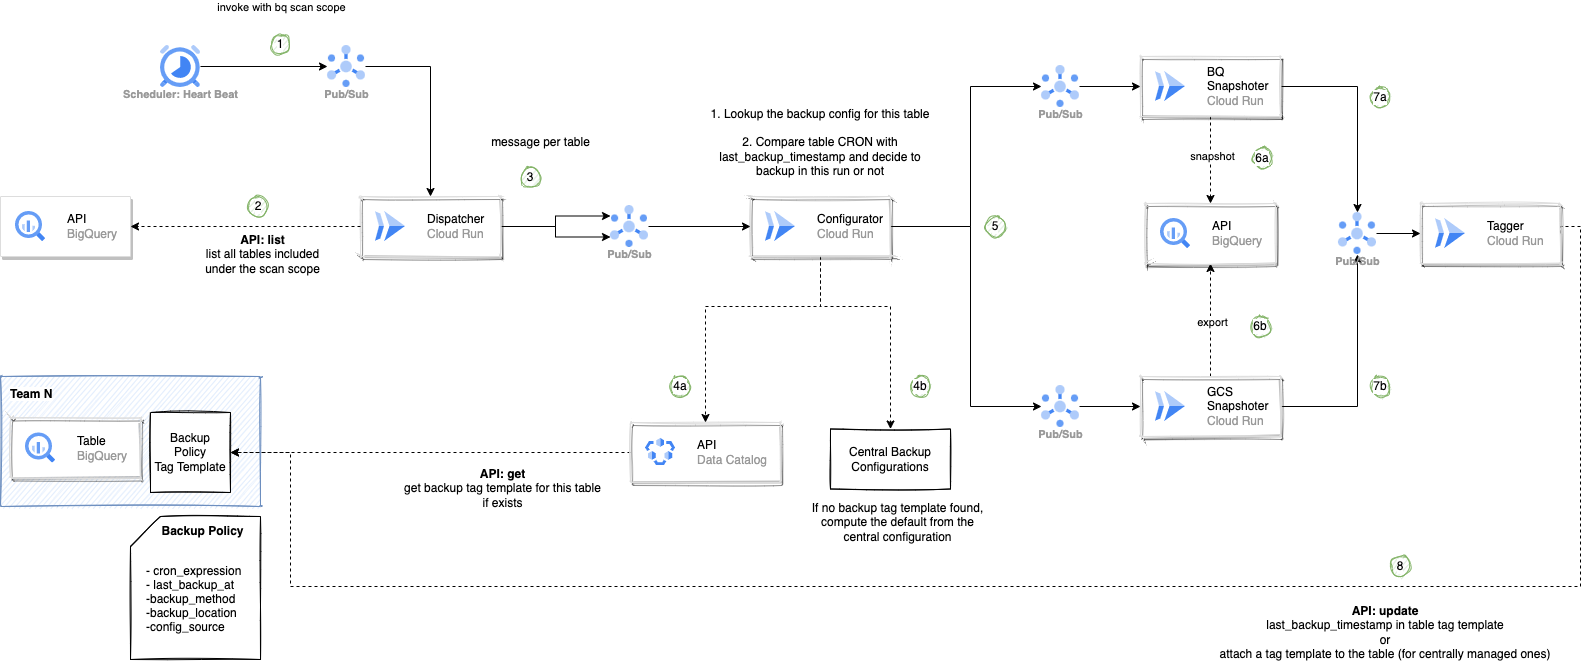
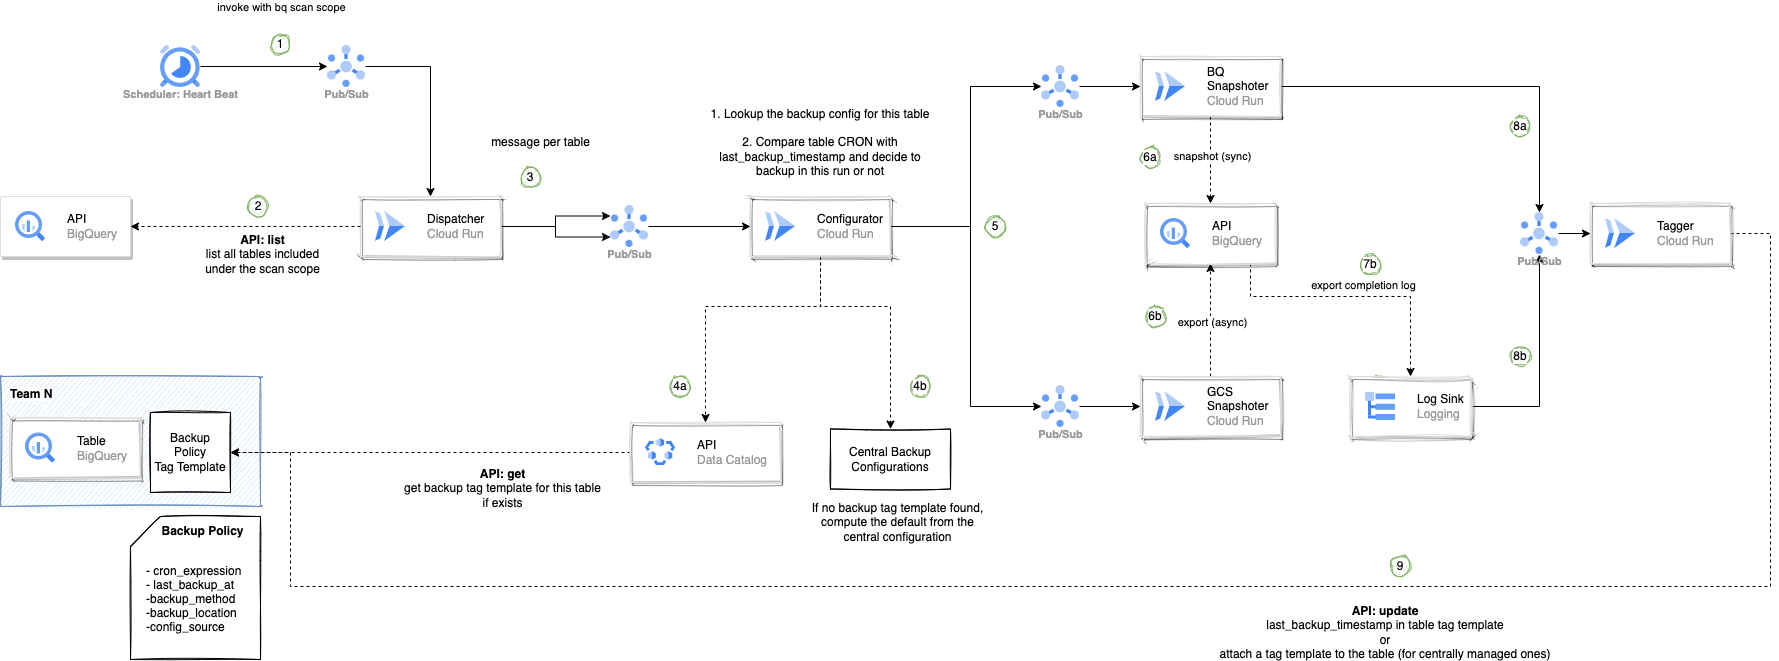
updated readme with new diagram

diff --git a/README.md b/README.md
@@ -119,9 +119,13 @@ A cloud scheduler is used to send a BigQuery “Scan Scope” to the dispatcher 
 
 #### GCS Snapshoter
 * Calls the BigQuery API to execute a full table export to GCS given the snapshot config passed from the previous service
-* Waits for the operation to report results, if the return status is success it sends a tagging request to the Tagger service
+* Submits the export job asynchronously 
+* Stage a tagging request to a persistent storage (i.e. Cloud Storage) and terminate the HTTP call
+* When the export job completes, BigQuery will log an event to Cloud Logging that is captured by a Log Sink and sent to the Tagger service
 
 #### Tagger
+* If the request originates from the BigQuery Snapshoter, the tagger request is parsed from the PubSub message itslef.
+* If the request originates from the GCS Snapshoter, the tagger request is parsed from the staging persistent storage.
 * If the table has a “Backup Policy” it updates the `last_backup_at`, `last_bq_snapshot_storage_uri` and `last_gcs_snapshot_storage_uri`
 * If the table doesn't have a "Backup Policy" it creates a new one with config_source = ‘SYSTEM’ and sets all the backup policy fields based on the fallback policy used
 
